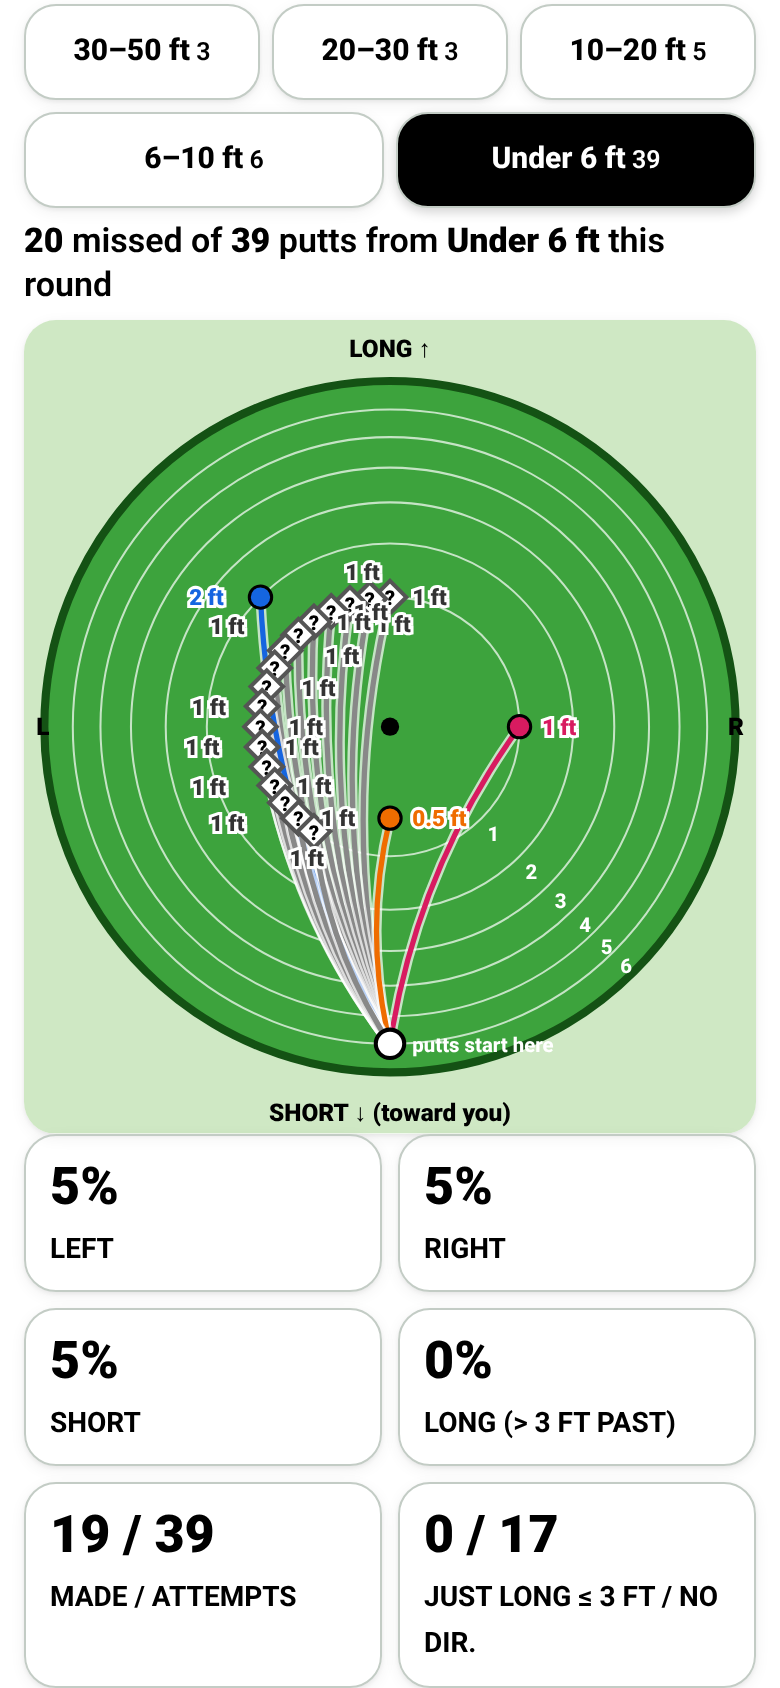
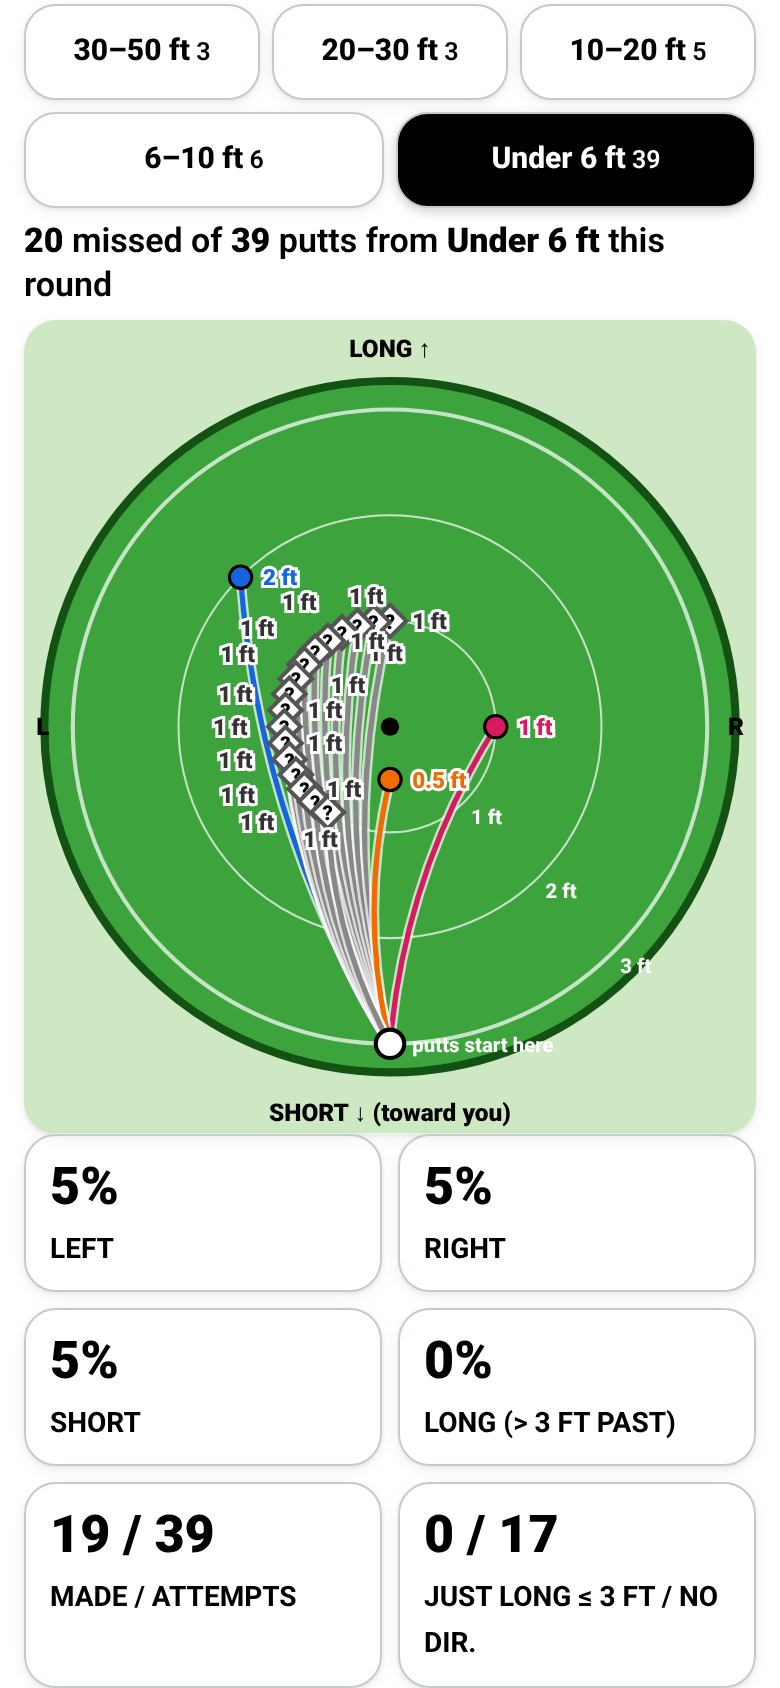
v46: putt-miss maps use linear evenly spaced rings scaled per distance group

diff --git a/sg.js b/sg.js
@@ -750,6 +750,14 @@
     if (d === 'left' || d === 'right') return d;
     return 'nodir';
   }
+  // Linear ring scale per putt-miss group: ring step and outer ring (ft); shrinks to the data, leftovers beyond the edge get '›'.
+  var PMISS_SCALE = { 6: [1, 5], 10: [1, 6], 20: [2, 10], 30: [3, 15], 50: [5, 20] };
+  function pmissScale(g, ends) {
+    var d = PMISS_SCALE[g.max] || [5, 20], step = d[0], cap = d[1], m = 0;
+    (ends || []).forEach(function (f) { if (Number(f) > m) m = Number(f); });
+    var max = m ? Math.min(cap, Math.max(step * 3, Math.ceil(m / step) * step)) : cap;
+    return { step: step, max: max };
+  }
   function pmissStats(list) { // list = putts in one group (made + missed)
     var miss = list.filter(function (p) { return !p.made; }), c = { left: 0, right: 0, short: 0, long: 0, nearlong: 0, nodir: 0 };
     miss.forEach(function (p) { c[pmissClass(p)]++; });
@@ -757,7 +765,7 @@
     return { attempts: list.length, made: list.length - miss.length, misses: miss.length, counts: c, pct: { left: pct('left'), right: pct('right'), short: pct('short'), long: pct('long'), nearlong: pct('nearlong'), nodir: pct('nodir') },
       avgLeftFt: miss.length ? miss.reduce(function (t, p) { return t + (p.endFt || 0); }, 0) / miss.length : null };
   }
-  var api = { PMISS_GROUPS: PMISS_GROUPS, pmissGroup: pmissGroup, pmissClass: pmissClass, pmissStats: pmissStats, roundEmpty: roundEmpty, foldStubs: foldStubs, pdfSafe: pdfSafe, reportFileName: reportFileName, pinSegments: pinSegments, REPORT_GROUPS: REPORT_GROUPS, reportGroup: reportGroup, SHORT_MAX_YD: SHORT_MAX_YD, APPR_BUCKETS: APPR_BUCKETS, apprBucket: apprBucket, proxAfterFt: proxAfterFt, puttKind: puttKind, threePutts: threePutts, puttScale: puttScale, puttRadius: puttRadius, puttPlace: puttPlace, PUTT_BANDS: PUTT_BANDS, puttGroup: puttGroup, puttStats: puttStats, makeBackup: makeBackup, parseBackup: parseBackup, mergeRounds: mergeRounds, conflictsOf: conflictsOf, PROX_LIES: PROX_LIES, lieGroup: lieGroup, proxByLie: proxByLie, proxWarnings: proxWarnings, PROX_BUCKETS: PROX_BUCKETS, inBucket: inBucket, roundYd: roundYd, proxStats: proxStats, reachedGreen: reachedGreen, PIN_GRID: PIN_GRID, PIN_NAME: PIN_NAME, normPin: normPin, DIR8: DIR8, DIR_NAME: DIR_NAME, DIR_ANGLE: DIR_ANGLE, normDir: normDir, expected: expected, expectedPGA: expectedPGA, BASELINES: BASELINES, baseline: function (id) { return BL[id] || BL.pga; },
+  var api = { PMISS_GROUPS: PMISS_GROUPS, pmissGroup: pmissGroup, pmissClass: pmissClass, pmissStats: pmissStats, pmissScale: pmissScale, roundEmpty: roundEmpty, foldStubs: foldStubs, pdfSafe: pdfSafe, reportFileName: reportFileName, pinSegments: pinSegments, REPORT_GROUPS: REPORT_GROUPS, reportGroup: reportGroup, SHORT_MAX_YD: SHORT_MAX_YD, APPR_BUCKETS: APPR_BUCKETS, apprBucket: apprBucket, proxAfterFt: proxAfterFt, puttKind: puttKind, threePutts: threePutts, puttScale: puttScale, puttRadius: puttRadius, puttPlace: puttPlace, PUTT_BANDS: PUTT_BANDS, puttGroup: puttGroup, puttStats: puttStats, makeBackup: makeBackup, parseBackup: parseBackup, mergeRounds: mergeRounds, conflictsOf: conflictsOf, PROX_LIES: PROX_LIES, lieGroup: lieGroup, proxByLie: proxByLie, proxWarnings: proxWarnings, PROX_BUCKETS: PROX_BUCKETS, inBucket: inBucket, roundYd: roundYd, proxStats: proxStats, reachedGreen: reachedGreen, PIN_GRID: PIN_GRID, PIN_NAME: PIN_NAME, normPin: normPin, DIR8: DIR8, DIR_NAME: DIR_NAME, DIR_ANGLE: DIR_ANGLE, normDir: normDir, expected: expected, expectedPGA: expectedPGA, BASELINES: BASELINES, baseline: function (id) { return BL[id] || BL.pga; },
     CALIB_ROUND: CALIB_ROUND, catLoss: catLoss, analyzeHole: analyzeHole, summarize: summarize,
     rowsToShots: rowsToShots, shotsToRows: shotsToRows, migrateV2Rows: migrateV2Rows, v1ToRows: v1ToRows, holeYards: holeYards,
     rowUnit: rowUnit, lieOf: lieOf, distOf: distOf, rowStrokes: rowStrokes, isPenalty: isPenalty,

diff --git a/app.js b/app.js
@@ -1249,9 +1249,9 @@
   }
   function pmissSVG(list, gid) {
     var G = SG.PMISS_GROUPS.filter(function (x) { return x.id === gid; })[0], W = 360, H = 400, cx = 180, cy = 200, R = 170;
-    var maxFt = G.max, RR = R - 14, rad = function (ft) { return RR * Math.sqrt(Math.max(0, Math.min(ft, maxFt)) / maxFt); }, step = maxFt <= 6 ? 1 : maxFt <= 10 ? 2 : maxFt <= 20 ? 5 : 10;
+    var sc = SG.pmissScale(G, list.filter(function (p) { return !p.made; }).map(function (p) { return p.endFt; })), maxFt = sc.max, step = sc.step, RR = R - 14, rad = function (ft) { return RR * Math.max(0, Math.min(ft, maxFt)) / maxFt; };
     var o = '<svg id="pmissmap" viewBox="0 0 ' + W + ' ' + H + '" role="img" aria-label="Missed putts"><rect width="' + W + '" height="' + H + '" fill="#cfe8c4"/><circle cx="' + cx + '" cy="' + cy + '" r="' + R + '" fill="#3da33d" stroke="#145214" stroke-width="4"/>';
-    for (var f = step; f <= maxFt; f += step) o += '<circle cx="' + cx + '" cy="' + cy + '" r="' + f1(rad(f)) + '" fill="none" stroke="#fff" stroke-opacity=".7" stroke-width="' + (f === G.min ? 2 : 1) + '"/><text class="ring" x="' + f1(cx + rad(f) * 0.707 + 3) + '" y="' + f1(cy + rad(f) * 0.707 + 11) + '" font-size="10" font-weight="800" fill="#fff">' + f + '</text>';
+    for (var f = step; f <= maxFt; f += step) o += '<circle cx="' + cx + '" cy="' + cy + '" r="' + f1(rad(f)) + '" fill="none" stroke="#fff" stroke-opacity=".7" stroke-width="' + (f === maxFt ? 2 : 1) + '"/><text class="ring" x="' + f1(cx + rad(f) * 0.707 + 3) + '" y="' + f1(cy + rad(f) * 0.707 + 11) + '" font-size="10" font-weight="800" fill="#fff">' + f + ' ft</text>';
     o += '<text x="' + cx + '" y="18" text-anchor="middle" font-size="12" font-weight="900">LONG ↑</text><text x="' + cx + '" y="' + (H - 6) + '" text-anchor="middle" font-size="12" font-weight="900">SHORT ↓ (toward you)</text>' +
       '<text x="6" y="' + (cy + 4) + '" font-size="12" font-weight="900">L</text><text x="' + (W - 6) + '" y="' + (cy + 4) + '" text-anchor="end" font-size="12" font-weight="900">R</text>';
     var tr = '', dots = '', labs = '', boxes = [], seenS = {}, seenE = {}, ns = 0;
@@ -1285,7 +1285,7 @@
     return '<div class="legend" id="pmlegend">' + ['left', 'right', 'short', 'long', 'nearlong'].map(function (k) { return '<span><i class="ln" style="background:' + PMC[k] + '"></i><i class="dot" style="background:' + PMC[k] + '"></i>' + PMN[k] + '</span>'; }).join('') +
       '<span><svg width="20" height="20" viewBox="0 0 20 20" style="flex:none"><path d="M10 2 l8 8 -8 8 -8 -8z" fill="#fff" stroke="#555" stroke-width="2"/><text x="10" y="14" text-anchor="middle" font-size="10" font-weight="900">?</text></svg>No direction entered for where it finished (drawn long)</span>' +
       '<span><i class="dot" style="background:#fff"></i>Common start point: every putt is drawn from straight below the hole, so the hole is the target</span>' +
-      '<span>Label = feet left to the hole (› = further than the picture, drawn at the edge). Rings = feet from the hole (square-root scale, so short leftovers are easy to see).</span></div>';
+      '<span>Label = feet left to the hole (› = further than the picture, drawn at the edge). Rings = feet from the hole, evenly spaced (linear scale, set per distance group so misses spread out).</span></div>';
   }
   function pmissHTML(all) {
     var D = pmissData(all), G = SG.PMISS_GROUPS.filter(function (x) { return x.id === D.group; })[0];

diff --git a/tests/pmiss-focused.js b/tests/pmiss-focused.js
@@ -34,6 +34,8 @@ const BASE = process.env.BASE_URL || 'http://127.0.0.1:8770/', OUT = '/workspace
     assert.strictEqual(nMiss, exp.misses); assert.ok(cells.some(t => t.includes(exp.made + ' / ' + exp.attempts)));
     const starts = await page.$$eval('#pmissmap path.pmtr', ps => [...new Set(ps.map(p => p.getAttribute('d').split(' Q')[0]))]); assert.ok(starts.length <= 1, 'one common start ' + starts);
     if (exp.counts.short) { const sh = await page.$$eval('#pmissmap .pmend[data-class="short"]', e => e.map(x => +x.getAttribute('cy'))); assert.ok(sh.every(y => y > 200), 'short ends below the hole'); }
+    const rings = await page.$$eval('#pmissmap circle[fill="none"]', cs => cs.map(c => +c.getAttribute('r')));
+    const gaps = rings.map((r, i) => r - (rings[i - 1] || 0)); assert.ok(rings.length >= 3 && gaps.every(g => Math.abs(g - gaps[0]) < 0.6), 'linear evenly spaced rings ' + rings);
     const lab = await page.locator('#pmissmap .pmlbl').count(); assert.ok(lab >= Math.min(1, exp.misses));
     const f = OUT + 'putt-miss-' + c[0] + '.png'; await page.locator('#mapview').evaluate(e => e.scrollTop = 0); await page.screenshot({ path: f }); shots.push(f);
   }

diff --git a/tests/sg.test.js b/tests/sg.test.js
@@ -724,3 +724,12 @@ test('PDF-report helper (not used by the map): SG distance groups + distinct col
   assert.deepStrictEqual([c('short', 1), c('shortleft', 5), c('long', 4), c('long', 3), c('longleft', 2), c('longright', 5), c('left', 1), c('', 2)], ['short', 'short', 'long', 'nearlong', 'left', 'long', 'left', 'nodir']);
   const st = SGm.pmissStats([{ made: true }, { made: false, endDir: 'short', endFt: 2 }, { made: false, endDir: 'right', endFt: 1 }]);
   assert.deepStrictEqual([st.attempts, st.made, st.misses, st.pct.short, st.pct.right], [3, 1, 2, 50, 50]); console.log('pmiss ok'); })();
+
+test('pmissScale: linear rings per putt-miss group, shrink to data, capped', () => {
+  const g = id => SG.PMISS_GROUPS.find(x => x.max === id);
+  assert.deepStrictEqual(SG.pmissScale(g(6), []), { step: 1, max: 5 });
+  assert.deepStrictEqual(SG.pmissScale(g(10), [2, 4.5]), { step: 1, max: 5 });
+  assert.deepStrictEqual(SG.pmissScale(g(20), [3]), { step: 2, max: 6 });
+  assert.deepStrictEqual(SG.pmissScale(g(30), [40]), { step: 3, max: 15 });
+  assert.deepStrictEqual(SG.pmissScale(g(50), [7]), { step: 5, max: 15 });
+});

diff --git a/sw.js b/sw.js
@@ -1,5 +1,5 @@
 // Offline support: cache the whole app on install, serve cache-first.
-const CACHE = 'golf-sg-v45';
+const CACHE = 'golf-sg-v46';
 const ASSETS = ['./', './index.html', './styles.css', './sg.js', './app.js', './config.js', './onedrive.js', './vendor/msal-browser.min.js', './vendor/jspdf.umd.min.js',
   './manifest.webmanifest', './icons/apple-touch-icon.png', './icons/icon-192.png',
   './icons/icon-512.png', './icons/icon-512-maskable.png'];
